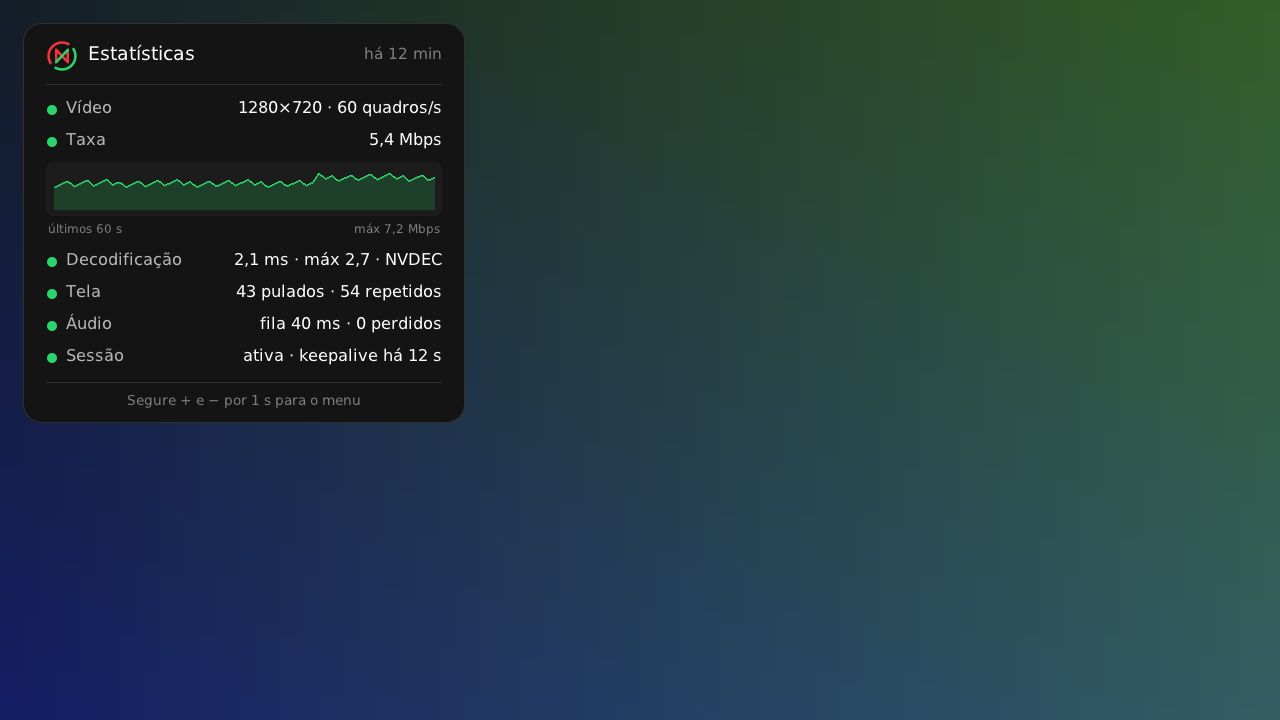
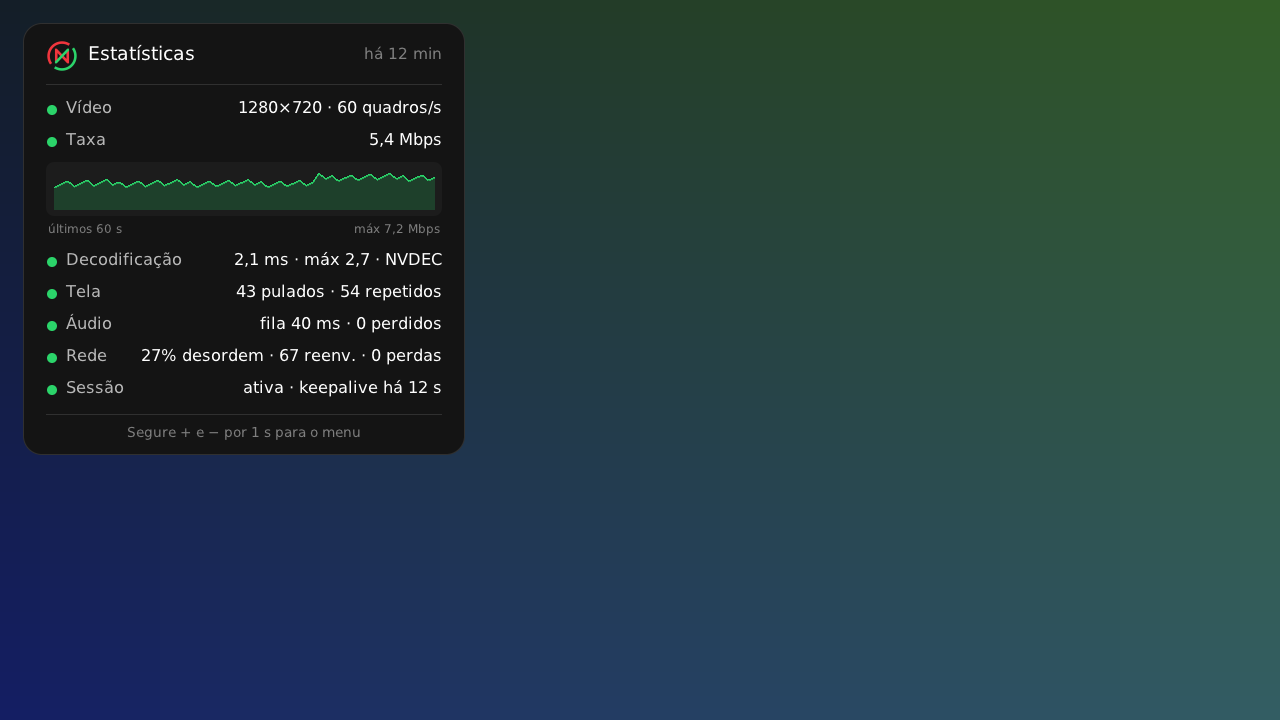
v0.12.2: rede nas estatísticas e aviso de Xbox desligado
Log de 25/11 (v0.12.1): 11 min na nuvem em 720p com 0 erros de
decodificação (antes 3751 em 4 min). 27% dos pacotes de vídeo chegaram
fora de ordem; 67 recuperados por NACK; 0 quadros perdidos. Console igual.

- Cartão de estatísticas: linha Rede (% fora de ordem, reenviados, perdas)
- serverInitiatedDisconnect com KickForServerShutdown: "O Xbox foi desligado"
- Docs: X1 e X2 validadas; próximo passo X3

Claude-Session: https://claude.ai/code/session_016roCsQ17rNSZAvovzYvfdF

Changed region(s): [[0.0, 0.4889, 0.375, 0.6417], [0.0312, 0.4889, 0.0938, 0.55]]

diff --git a/source/main.c b/source/main.c
@@ -1442,6 +1442,10 @@ static Passo passo_conectar(AuthStreaming *streaming, XSessao *sessao, double te
                         mostrar_mensagem(UI_INFO, "A sessão na nuvem foi encerrada.",
                                          "O servidor fechou a sessão (tempo sem jogar, saída do jogo ou manutenção).",
                                          "A=Jogar de novo|B=Voltar para os jogos|+=Fechar");
+                    else if (strstr(e.motivo_encerramento, "KickForServerShutdown")) // log de 25/11
+                        mostrar_mensagem(UI_INFO, "O Xbox foi desligado.",
+                                         "Conectar de novo liga o Xbox outra vez, se ele estiver em suspensão.",
+                                         "A=Conectar de novo|B=Voltar para a lista|+=Fechar");
                     else
                         mostrar_mensagem(UI_INFO, "O Xbox encerrou a conexão.",
                                          "Ele foi desligado ou a sessão foi fechada no próprio console.\n"
@@ -1566,6 +1570,10 @@ static Passo passo_conectar(AuthStreaming *streaming, XSessao *sessao, double te
             st.audio_fila_ms = a.fila_ms;
             st.audio_perdidos = a.perdidos;
             st.audio_faltas = a.faltas;
+            st.rede_pacotes = e.rede.pacotes;
+            st.rede_fora_de_ordem = e.rede.fora_de_ordem;
+            st.rede_recuperados = e.rede.recuperados;
+            st.rede_quadros_perdidos = e.rede.quadros_perdidos;
             st.keepalive_status = status_keepalive;
             st.keepalive_ha_s = status_keepalive < 0 ? 0 : (int)segundos_desde(ultimo_keepalive);
             st.hist_total = hist_total;

diff --git a/source/ui/tela.c b/source/ui/tela.c
@@ -684,7 +684,7 @@ void ui_estatisticas_video(uint32_t *pixels, int passo, const UiEstatisticas *e)
     g_px = pixels;
     g_passo = passo;
     const int x = 24, y = 24, w = 440, pad = 22;
-    const int h = 398;
+    const int h = 430;
     retangulo(x - 1, y - 1, w + 2, h + 2, 19, COR_LINHA);
     retangulo(x, y, w, h, 18, RGB(0x14, 0x14, 0x14));
 
@@ -771,6 +771,15 @@ void ui_estatisticas_video(uint32_t *pixels, int passo, const UiEstatisticas *e)
         snprintf(buf, sizeof buf, "desligado");
     linha_est(lx, ly, lw, "Áudio", buf, !e->audio_ativo ? COR_ERRO : e->audio_perdidos ? COR_AVISO : COR_VERDE);
     ly += 32;
+
+    // Rede: o que o montador consertou (fora de ordem, NACK) e o que se perdeu
+    {
+        unsigned long pct = e->rede_pacotes ? e->rede_fora_de_ordem * 100 / e->rede_pacotes : 0;
+        snprintf(buf, sizeof buf, "%lu%% desordem · %lu reenv. · %lu perdas", pct, e->rede_recuperados,
+                 e->rede_quadros_perdidos);
+        linha_est(lx, ly, lw, "Rede", buf, e->rede_quadros_perdidos ? COR_AVISO : COR_VERDE);
+        ly += 32;
+    }
 
     // Conexão
     bool ka_ok = e->keepalive_status >= 200 && e->keepalive_status < 300;

diff --git a/tests/ui/preview.c b/tests/ui/preview.c
@@ -90,6 +90,7 @@ int main(int argc, char **argv) {
     st.decod_ms = 2.1f; st.decod_ms_max = 2.7f; st.hardware = true; st.pulados = 43; st.repetidos = 54;
     st.audio_ativo = true; st.audio_fila_ms = 40; st.keepalive_status = 200; st.keepalive_ha_s = 12;
     st.hist_total = 60;
+    st.rede_pacotes = 331982; st.rede_fora_de_ordem = 89915; st.rede_recuperados = 67;
     for (int i = 0; i < 60; i++) st.hist_mbps[i] = 4.5f + 1.5f * (float)((i * 37 % 11) / 10.0) + (i > 40 ? 1.2f : 0);
     ui_estatisticas_video(px, UI_LARGURA, &st);
     salvar("9_estatisticas");

diff --git a/source/ui/tela.h b/source/ui/tela.h
@@ -66,6 +66,9 @@ typedef struct {
     bool  audio_ativo;
     int   audio_fila_ms;
     unsigned long audio_perdidos, audio_faltas;
+    // Rede (v0.12.2, montador.c): pacotes de vídeo fora de ordem, recuperados por
+    // NACK e quadros perdidos de vez
+    unsigned long rede_pacotes, rede_fora_de_ordem, rede_recuperados, rede_quadros_perdidos;
     long  keepalive_status;            // -1 = ainda não enviado
     int   keepalive_ha_s;
     float hist_mbps[UI_HIST];          // últimos segundos, o mais antigo primeiro

diff --git a/docs/XCLOUD.md b/docs/XCLOUD.md
@@ -41,7 +41,7 @@ Como no resto do projeto, cada fase termina com um `.nro` testado no Switch ante
 |---|---|---|
 | X0 | v0.11.0 / v0.11.1 | Funcionou no Switch (25/11); v0.11.1 deixa a carga mais rápida |
 | X1 | v0.12.0 | Funcionou no Switch (25/11): Gears Tactics abriu e conectou na 1ª |
-| X2 | v0.12.1 (parte) | Montador próprio com NACK; 720p na nuvem. Em teste |
+| X2 | v0.12.1 / v0.12.2 | Funcionou (25/11): 11 min em 720p, 0 erros de decodificação |
 
 ### Detalhes por fase
 
@@ -100,9 +100,13 @@ Como no resto do projeto, cada fase termina com um `.nro` testado no Switch ante
 
 | Teste (v0.12.1) | Resultado esperado | Resultado obtido |
 |---|---|---|
-| Abrir um jogo da nuvem | `video 1280x720` no log | |
-| Jogar uns minutos com movimento | Erros de decodificação perto de 0; `recuperados` subindo quando houver buracos | |
-| Console de casa | Igual a antes (o montador também vale para o console) | |
+| Abrir um jogo da nuvem | `video 1280x720` no log | Sim (Minecraft Dungeons II) |
+| Jogar uns minutos com movimento | Erros de decodificação perto de 0; `recuperados` subindo quando houver buracos | **0 erros** em 11 min (antes 3751 em 4 min) |
+| Console de casa | Igual a antes (o montador também vale para o console) | Sim: 0 erros, 0 buracos |
+
+**Resultado da v0.12.1 (log de 25/11):** 11 min de Minecraft Dungeons II a 60 quadros/s, 4–6 Mbps, **0 erros de decodificação e 0 quadros perdidos**. A causa principal era a ordem: **27% dos pacotes de vídeo** (89.915 de 331.982) chegaram fora de ordem, todos arrumados pelo montador. Perdas de verdade foram poucas: 66 NACKs, 67 pacotes reenviados pelo servidor e recuperados. No console de casa, 0 fora de ordem e 0 erros, como antes. Ao desligar o Xbox, o motivo veio no aviso: `KickForServerShutdown`.
+
+**v0.12.2:** linha **Rede** no cartão de estatísticas (% fora de ordem, pacotes reenviados, quadros perdidos) e a tela "O Xbox foi desligado" quando o motivo é `KickForServerShutdown`. Com isso a X2 está completa; falta só a latência, que o app ainda não mede.
 
 **X1 – Sessão.** O caminho de conexão é o mesmo do Remote Play; o que muda:
 - corpo do `play`: `titleId` preenchido, `serverId` vazio;

diff --git a/docs/PLANO.md b/docs/PLANO.md
@@ -18,13 +18,14 @@
 - **v0.11.0** (25/11): início do xCloud, fase X0 (`docs/XCLOUD.md`): R na lista de consoles abre a lista dos jogos da nuvem. Funcionou: 622 jogos, Ultimate, região BRAZILSOUTH, mas em 20 s.
 - **v0.11.1**: carga da nuvem mais rápida (gzip, nomes no SD): 2ª abertura em 5,7 s.
 - **v0.11.4**: grava no log o motivo quando o Xbox encerra a conexão.
+- **v0.12.2**: rede no cartão de estatísticas; "O Xbox foi desligado" quando é o caso. X1 e X2 do xCloud validadas.
 - **v0.12.1**: montador de quadros próprio com NACK (fim dos quadros quebrados pela internet) e 720p na nuvem.
 - **v0.12.0**: xCloud fase X1: A na lista de jogos da nuvem abre o jogo (fila, preparação, conexão pela internet).
 - **v0.11.5**: desligar o Xbox no meio da sessão não o religa mais: o app pergunta se quer conectar de novo.
 - **v0.11.3**: Xbox desligado aparece assim na lista; nuvem sem renovar a conta à toa.
 - **v0.11.2**: com o Xbox desligado (não em repouso), o erro aparece na hora com o que fazer; "Tentar de novo" depois de um erro de sessão não segue mais com a sessão que falhou.
 - **23/11:** repositório público (Actions sem cota). Antes, o histórico foi reescrito para tirar um dado pessoal dos testes; quem tinha um clone precisa clonar de novo.
-- Próximo passo do xCloud: o usuário testar a v0.12.0 (abrir um jogo da nuvem) e mandar o log; depois, fase X2 (qualidade pela internet).
+- Próximo passo do xCloud: fase X3 (interface da nuvem: aba, capas, busca, recentes, tela de fila).
 - Fase 4: o usuário testar no dia a dia (repouso, Wi-Fi, HOME, sessão longa) e mandar os logs; com a fase 4 validada, juntar `fase-4` na `main` e seguir para a fase 5 (vibração, mapeamento configurável, opções).
 - Dicas registradas: para atualizar, copiar só o `NXStream.nro` (o `token.json` guarda o login entre versões); o preto em 16 (faixa limitada) é o correto no OLED.
 

diff --git a/docs/TELAS.md b/docs/TELAS.md
@@ -32,7 +32,7 @@ Para atualizar depois de mudar a interface: `make -C tests/ui` e copiar `tests/u
 | | |
 |---|---|
 | ![Menu](telas/8_menu_video.png) | ![Estatísticas](telas/9_estatisticas.png) |
-| **Menu** (segure + e − por 1 s). Voltar ao jogo, botão Xbox, estatísticas, desconectar, fechar. | **Estatísticas.** Cartão no canto, sem escurecer o jogo: quadros/s, taxa com gráfico de 60 s, decodificação, áudio e sessão. |
+| **Menu** (segure + e − por 1 s). Voltar ao jogo, botão Xbox, estatísticas, desconectar, fechar. | **Estatísticas.** Cartão no canto, sem escurecer o jogo: quadros/s, taxa com gráfico de 60 s, decodificação, áudio, rede (pacotes fora de ordem, reenviados, quadros perdidos) e sessão. |
 
 ## Erros
 

diff --git a/README.md b/README.md
@@ -6,7 +6,7 @@
 <img src="https://img.shields.io/badge/platform-Nintendo%20Switch-e60012" alt="Platform">
 <img src="https://img.shields.io/badge/language-C-blue" alt="Language">
 <img src="https://img.shields.io/badge/license-GPL--3.0-green" alt="License">
-<img src="https://img.shields.io/badge/version-0.12.1-2bd46a" alt="Version">
+<img src="https://img.shields.io/badge/version-0.12.2-2bd46a" alt="Version">
 <img src="https://img.shields.io/badge/status-beta-orange" alt="Status">
 </p>
 
